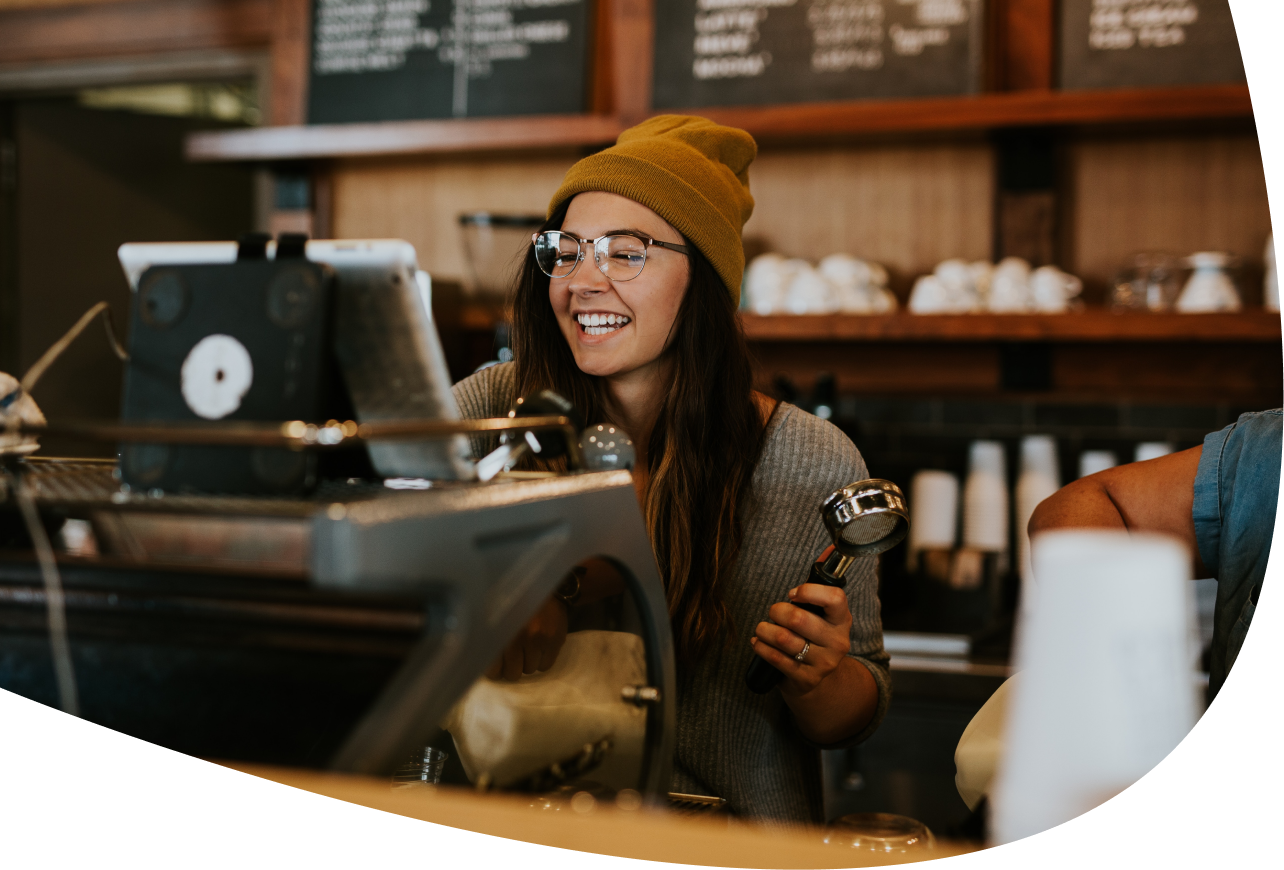
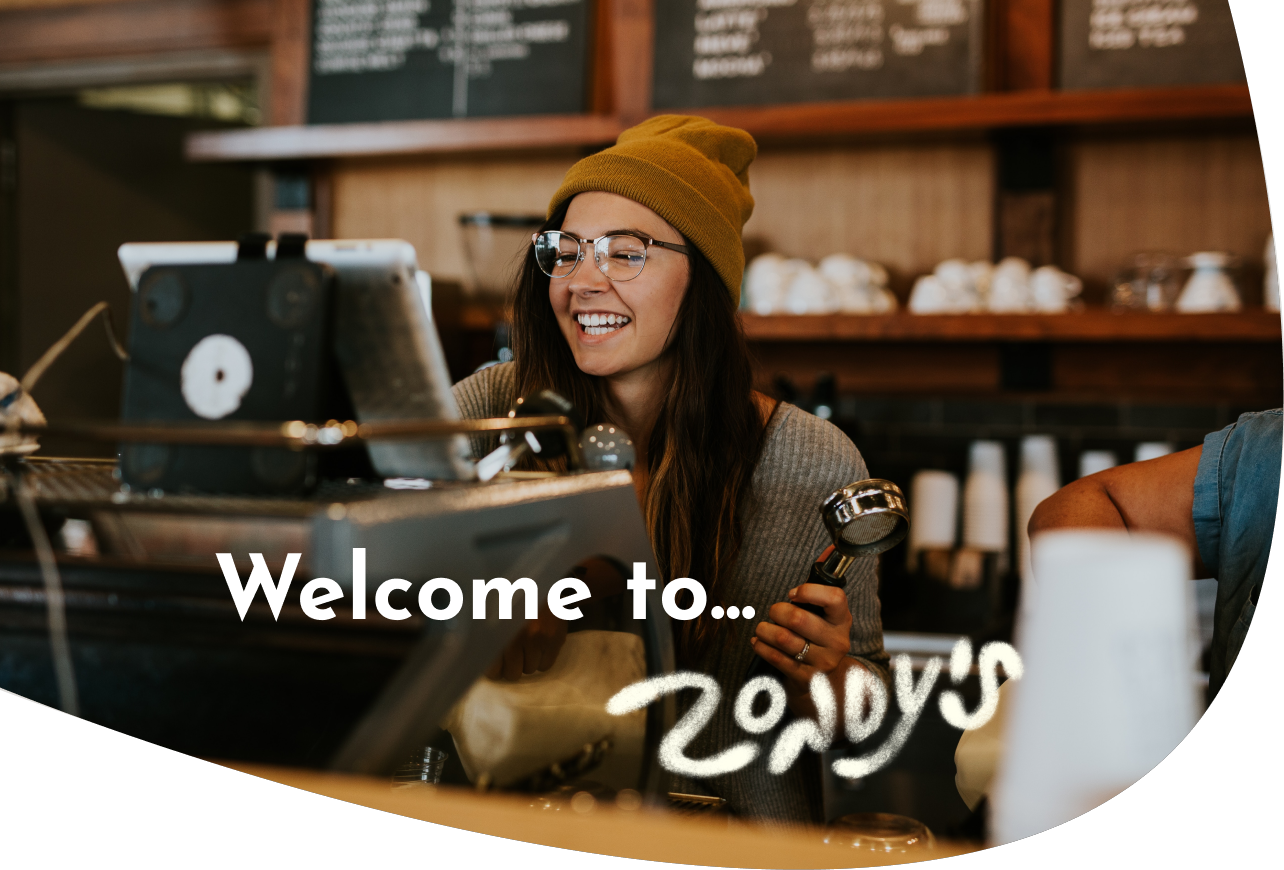
Added assets, replaced some layered assets to be more static

diff --git a/zondys/index.html b/zondys/index.html
@@ -23,7 +23,6 @@
     <!-- Hero Section -->
     <section id="hero-section">
         <div id="hero-container">
-          <div id="hero-text">Welcome to...</div>
           <!-- <img id="zondy-logo" src="zondy-logo.png"></img> -->
           <img id="hero-img" src="zondy-photo.png"></img>
         </div>
@@ -46,6 +45,10 @@
             <p class="hours">Sat: 12 pm - 9 pm</p>
             <p class="hours">Sun: CLOSED</p>
         </div>
+      </div>
+
+      <div id="zondy-circle">
+        <img src=""></img>
       </div>
 
       <img id="bubble" src="speechbubble.png"></img>
@@ -87,13 +90,7 @@
     </div>
 
     <div>
-      <p>See this month's featured artist!</p>
-      <p>Meet local artist of the month: Sofia Cordoba!</p>
-      <a href="artist.html">LEARN MORE!</a>
-
-      <img id="arrow" src="arrow.png"></img>
       <img id="artist-img" src="artist.png"></img>
-      <div id="artist-circle"></div>
       <div id="carousel">
         <img class="carousel-img" src="carousel1.png"></img>
         <img id="hidden" class="carousel-img" src="carousel2.png"></img>

diff --git a/zondys/script.js b/zondys/script.js
@@ -1,5 +1,4 @@
-var theme = document.getElementsByTagName('link')[0]; 
-
+var theme = document.getElementsByTagName('link')[0];
 // Change the value of href attribute  
 // to change the css sheet. 
 if (screen.width <= 1000) { 
